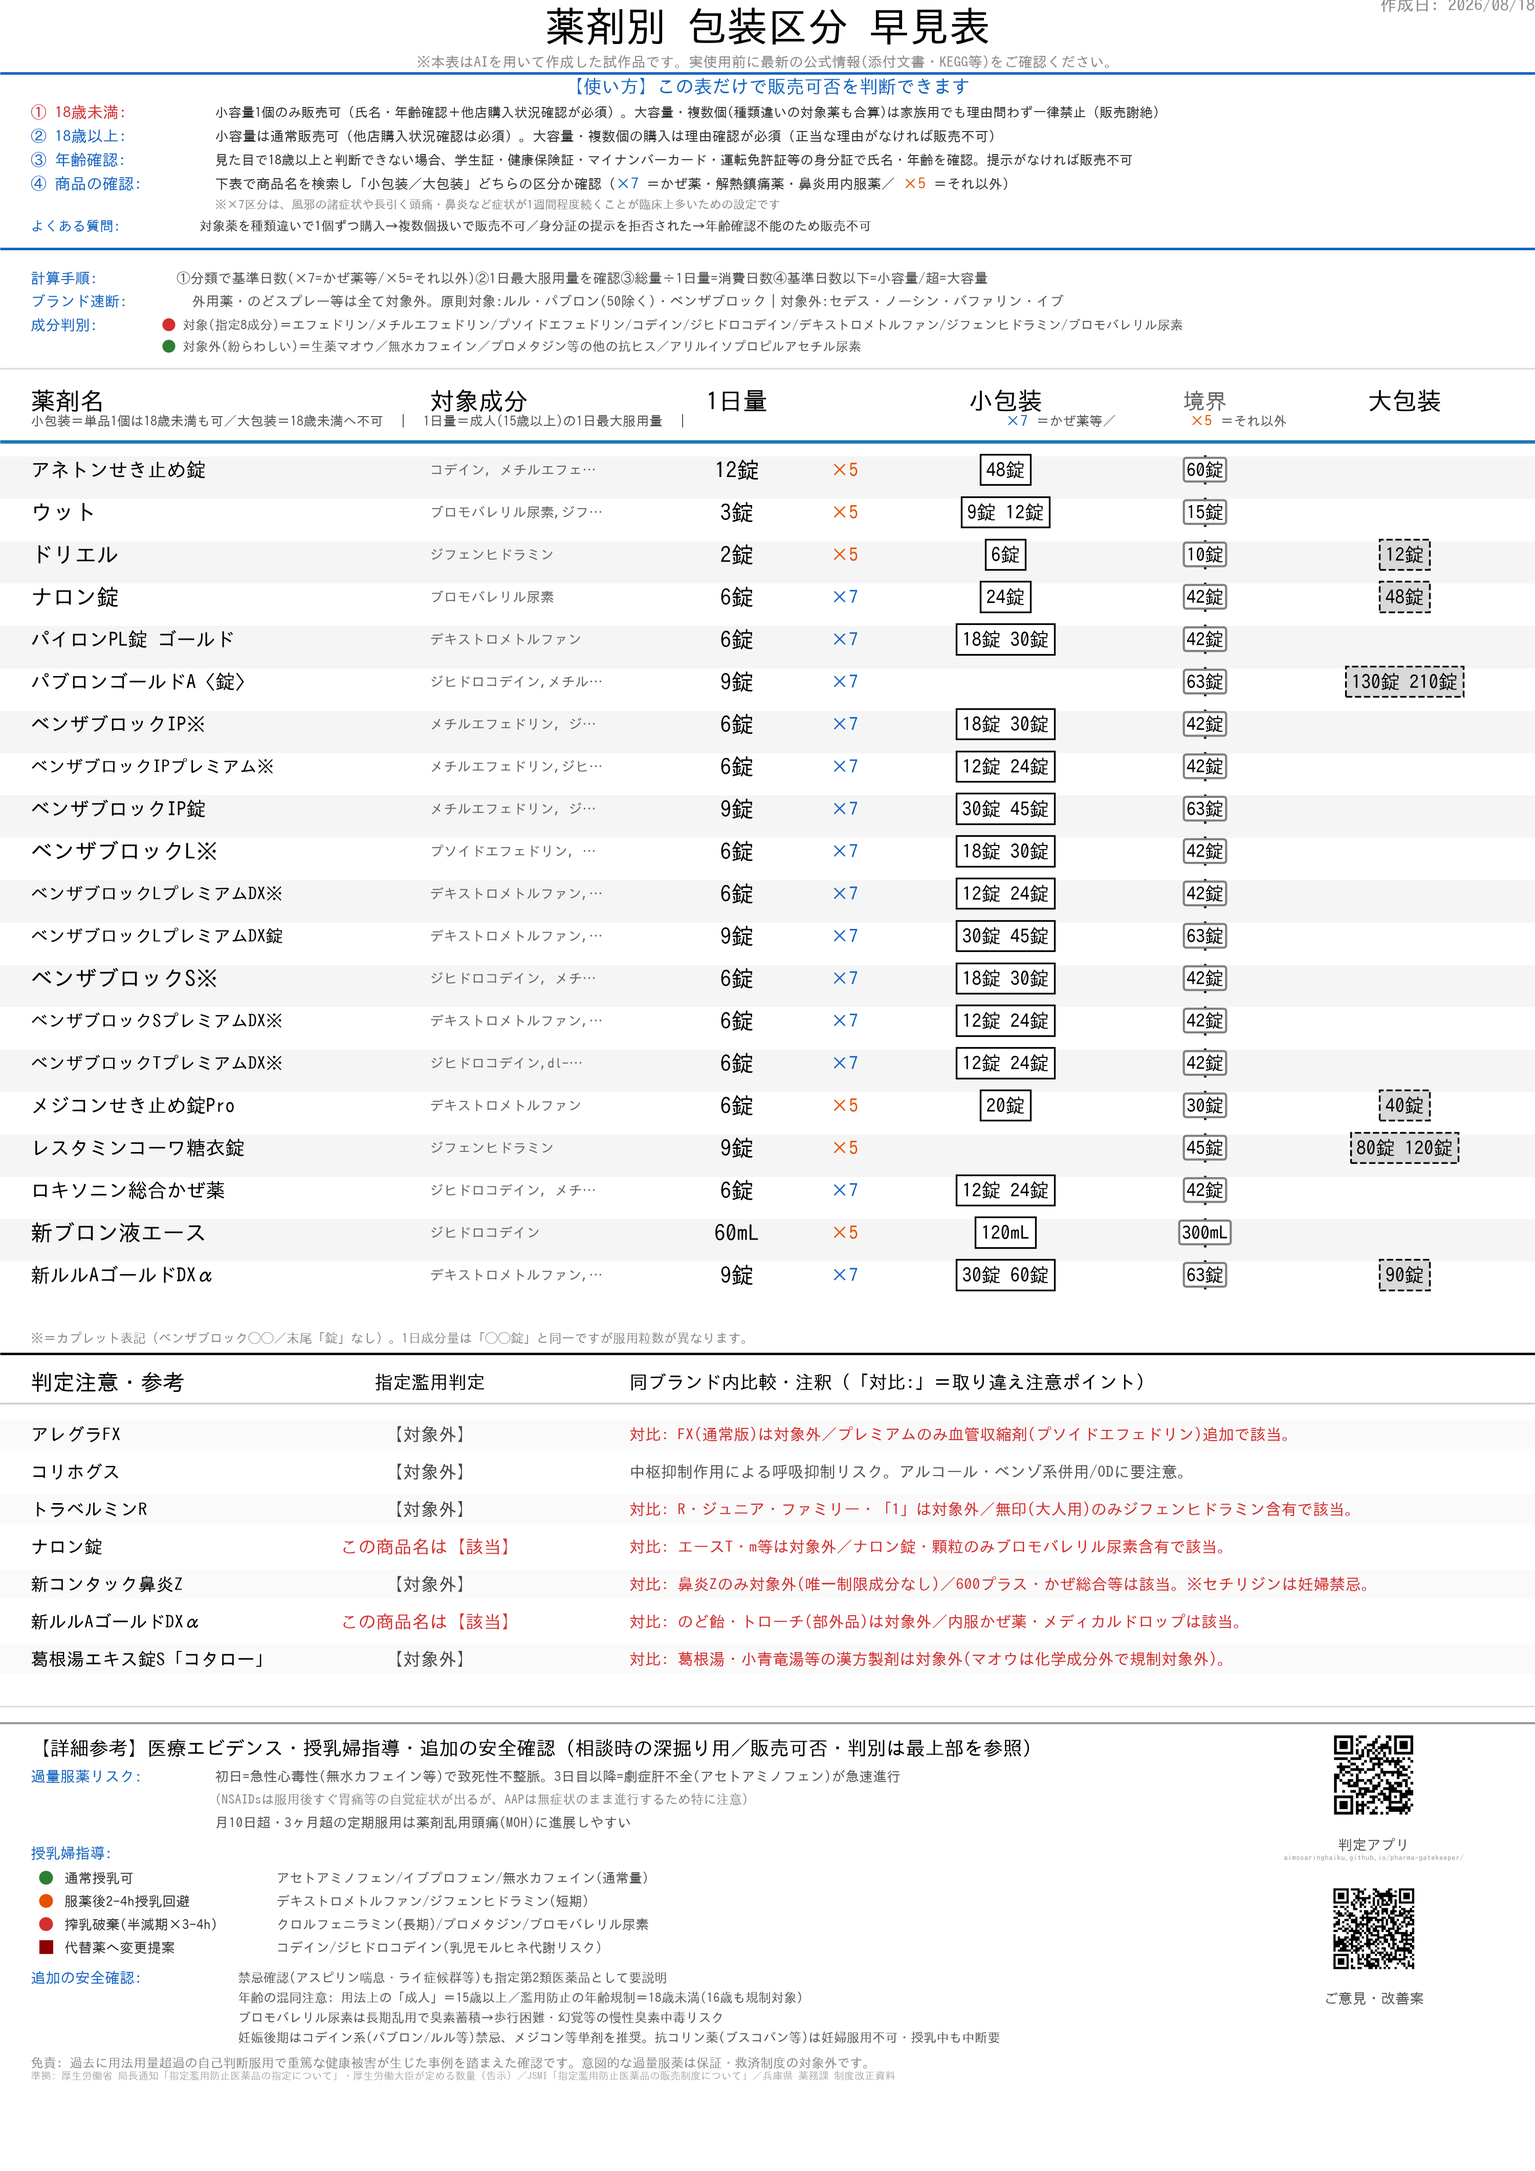
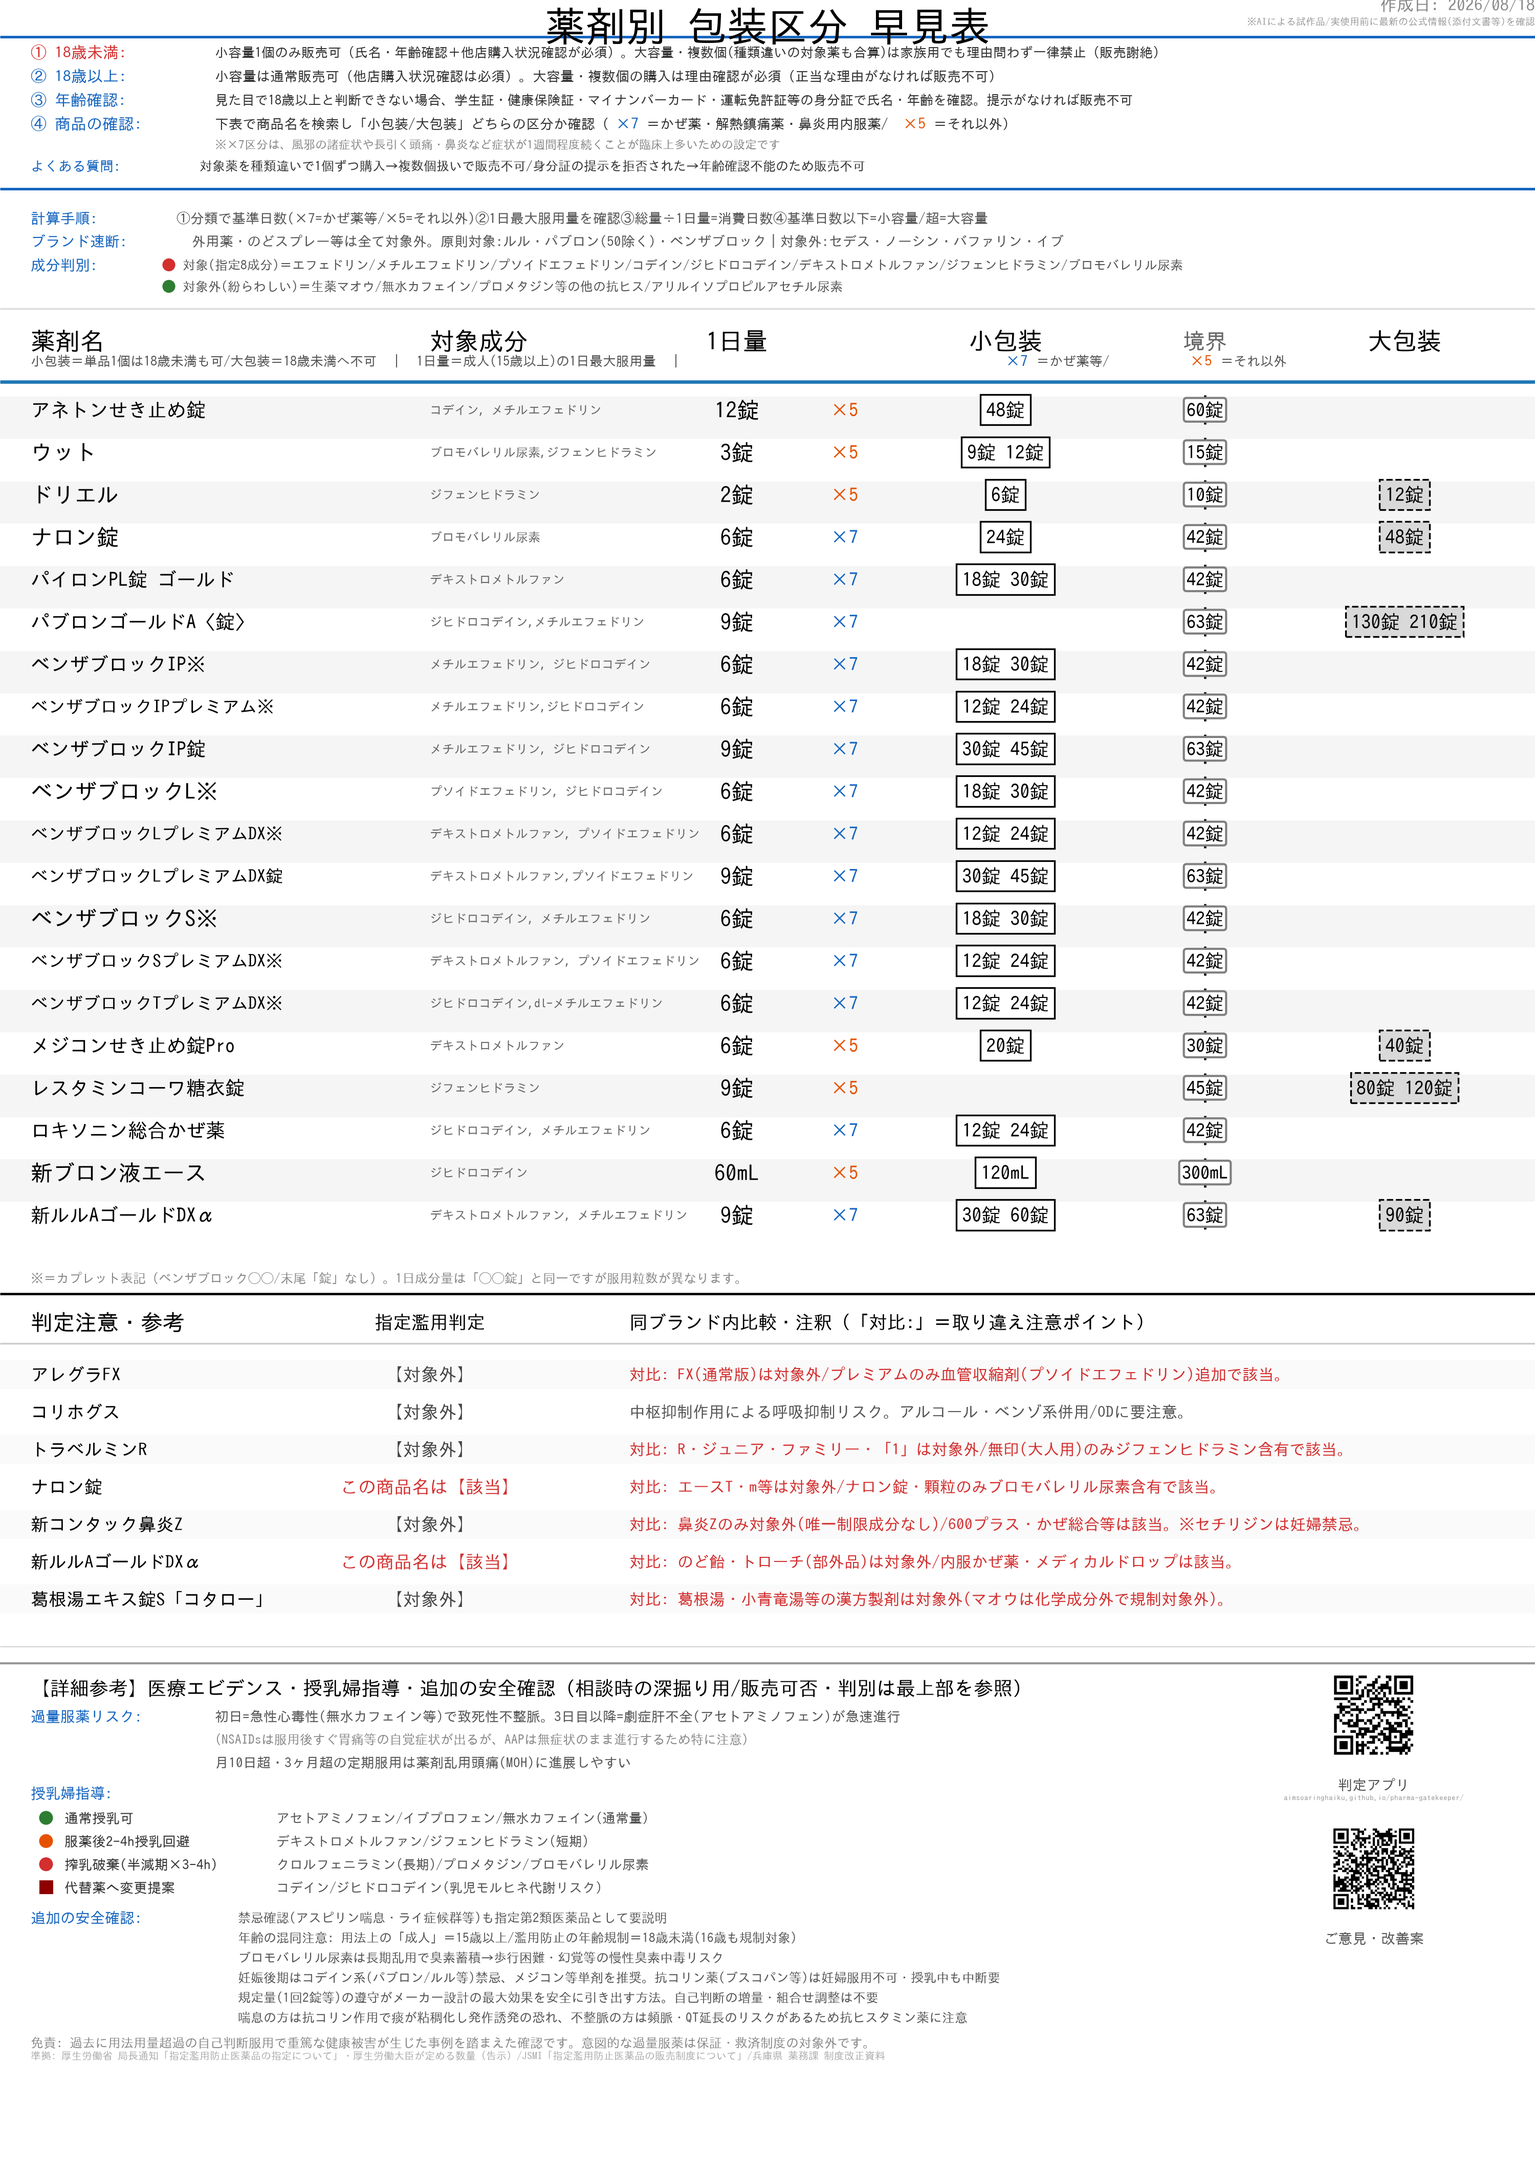
黄金比率・喘息/不整脈の注意を追加し、表記統一とレイアウト微調整
・追加の安全確認に「規定量遵守の重要性」「喘息・不整脈と抗コリン薬/
  抗ヒスタミン薬の関係」を1文ずつ追加
・全角スラッシュ（／）を半角（/）に統一
・タイトル直下の試作品注記をタイトル右横に小さく移動し、
  「【使い方】この表だけで販売可否を判断できます」の見出しを削除
・対象成分欄の表示上限を12→26文字に拡張し、フォントも調整して
  成分名をより読み取りやすく変更

diff --git a/vpc_v9_single_page.py b/vpc_v9_single_page.py
@@ -16,7 +16,7 @@ FORM_URL = "https://docs.google.com/forms/d/e/1FAIpQLSf7A1Hz3jx1FpkuV-3V7X69qNcN
 TARGET_INGREDIENTS_LEGEND = (
     "指定8成分: エフェドリン/メチルエフェドリン/プソイドエフェドリン/コデイン/ジヒドロコデイン/"
     "デキストロメトルファン/ジフェンヒドラミン/ブロモバレリル尿素　｜　"
-    "非対象（紛らわしい）: 生薬マオウ／無水カフェイン／プロメタジン等の抗ヒス／アリルイソプロピルアセチル尿素"
+    "非対象（紛らわしい）: 生薬マオウ/無水カフェイン/プロメタジン等の抗ヒス/アリルイソプロピルアセチル尿素"
 )
 
 GRAY = "#555555"
@@ -101,12 +101,12 @@ mart = pd.DataFrame(processed).sort_values("product").reset_index(drop=True)
 reference_df = df[df["kubun"].isin(["＊〇", "＊対象外", "△"])].copy()
 reference_rows = []
 CUSTOM_NOTES = {
-    "アレグラFX": "対比: FX(通常版)は対象外／プレミアムのみ血管収縮剤(プソイドエフェドリン)追加で該当。",
+    "アレグラFX": "対比: FX(通常版)は対象外/プレミアムのみ血管収縮剤(プソイドエフェドリン)追加で該当。",
     "コリホグス": "中枢抑制作用による呼吸抑制リスク。アルコール・ベンゾ系併用/ODに要注意。",
-    "トラベルミンR": "対比: R・ジュニア・ファミリー・「1」は対象外／無印(大人用)のみジフェンヒドラミン含有で該当。",
-    "ナロン錠": "対比: エースT・m等は対象外／ナロン錠・顆粒のみブロモバレリル尿素含有で該当。",
-    "新コンタック鼻炎Z": "対比: 鼻炎Zのみ対象外(唯一制限成分なし)／600プラス・かぜ総合等は該当。※セチリジンは妊婦禁忌。",
-    "新ルルAゴールドDXα": "対比: のど飴・トローチ(部外品)は対象外／内服かぜ薬・メディカルドロップは該当。",
+    "トラベルミンR": "対比: R・ジュニア・ファミリー・「1」は対象外/無印(大人用)のみジフェンヒドラミン含有で該当。",
+    "ナロン錠": "対比: エースT・m等は対象外/ナロン錠・顆粒のみブロモバレリル尿素含有で該当。",
+    "新コンタック鼻炎Z": "対比: 鼻炎Zのみ対象外(唯一制限成分なし)/600プラス・かぜ総合等は該当。※セチリジンは妊婦禁忌。",
+    "新ルルAゴールドDXα": "対比: のど飴・トローチ(部外品)は対象外/内服かぜ薬・メディカルドロップは該当。",
     "葛根湯エキス錠S「コタロー」": "対比: 葛根湯・小青竜湯等の漢方製剤は対象外(マオウは化学成分外で規制対象外)。",
 }
 for product, group in reference_df.groupby("product", sort=True):
@@ -154,17 +154,13 @@ current_y = LOGICAL_H - 1.7
 ax.text(LOGICAL_W / 2, current_y, "薬剤別 包装区分 早見表", fontsize=18.91, fontweight="bold", ha="center", va="center")
 today_str = datetime.date.today().strftime("%Y/%m/%d")
 ax.text(LOGICAL_W, current_y + 1.4, f"作成日: {today_str}", fontsize=7.93, ha="right", va="center", color="#888888")
-
-current_y -= 2.32
-ax.text(LOGICAL_W / 2, current_y,
-        "※本表はAIを用いて作成した試作品です。実使用前に最新の公式情報(添付文書・KEGG等)をご確認ください。",
-        fontsize=6.71, ha="center", va="center", color="#888888")
+ax.text(LOGICAL_W, current_y + 0.3, "※AIによる試作品/実使用前に最新の公式情報(添付文書等)を確認",
+        fontsize=4.6, ha="right", va="center", color="#999999")
 
 # --- 使い方・販売可否（①を年齢規制＝この表の根幹に。ルール未経験者でもこの1枚で可否判断できるよう最上部に配置） ---
-current_y -= 1.6
+current_y -= 1.55
 ax.hlines(current_y + 0.85, 0, LOGICAL_W, colors=BLUE, linewidth=1.2)
-ax.text(LOGICAL_W / 2, current_y, "【使い方】この表だけで販売可否を判断できます", fontsize=8.6, fontweight="bold", ha="center", va="center", color=BLUE)
-current_y -= 1.68
+current_y -= 0.15
 ax.text(COL_NAME_X, current_y, "① 18歳未満:", fontsize=7.4, fontweight="bold", ha="left", va="center", color=RED)
 ax.text(COL_NAME_X + 12.0, current_y,
         "小容量1個のみ販売可（氏名・年齢確認＋他店購入状況確認が必須）。大容量・複数個(種類違いの対象薬も合算)は家族用でも理由問わず一律禁止（販売謝絶）",
@@ -181,9 +177,9 @@ ax.text(COL_NAME_X + 12.0, current_y,
         fontsize=6.3, ha="left", va="center", color="#333333")
 current_y -= 1.55
 ax.text(COL_NAME_X, current_y, "④ 商品の確認:", fontsize=7.4, fontweight="bold", ha="left", va="center", color=BLUE)
-ax.text(COL_NAME_X + 12.0, current_y, "下表で商品名を検索し「小包装／大包装」どちらの区分か確認（", fontsize=6.6, ha="left", va="center", color="#333333")
+ax.text(COL_NAME_X + 12.0, current_y, "下表で商品名を検索し「小包装/大包装」どちらの区分か確認（", fontsize=6.6, ha="left", va="center", color="#333333")
 ax.text(COL_NAME_X + 38.1, current_y, "×7", fontsize=7.2, fontweight="bold", ha="left", va="center", color=BLUE)
-ax.text(COL_NAME_X + 40.1, current_y, "＝かぜ薬・解熱鎮痛薬・鼻炎用内服薬／", fontsize=6.6, ha="left", va="center", color="#333333")
+ax.text(COL_NAME_X + 40.1, current_y, "＝かぜ薬・解熱鎮痛薬・鼻炎用内服薬/", fontsize=6.6, ha="left", va="center", color="#333333")
 ax.text(COL_NAME_X + 56.8, current_y, "×5", fontsize=7.2, fontweight="bold", ha="left", va="center", color=ORANGE)
 ax.text(COL_NAME_X + 58.8, current_y, "＝それ以外）", fontsize=6.6, ha="left", va="center", color="#333333")
 current_y -= 1.35
@@ -193,7 +189,7 @@ ax.text(COL_NAME_X + 12.0, current_y,
 current_y -= 1.4
 ax.text(COL_NAME_X, current_y, "よくある質問:", fontsize=6.6, fontweight="bold", ha="left", va="center", color=BLUE)
 ax.text(COL_NAME_X + 11.0, current_y,
-        "対象薬を種類違いで1個ずつ購入→複数個扱いで販売不可／身分証の提示を拒否された→年齢確認不能のため販売不可",
+        "対象薬を種類違いで1個ずつ購入→複数個扱いで販売不可/身分証の提示を拒否された→年齢確認不能のため販売不可",
         fontsize=6.0, ha="left", va="center", color="#333333")
 current_y -= 1.5
 ax.hlines(current_y, 0, LOGICAL_W, colors=BLUE, linewidth=1.2)
@@ -219,7 +215,7 @@ ax.text(COL_NAME_X + 9.9, current_y,
 current_y -= 1.4
 marker(ax, COL_NAME_X + 9.0, current_y, GREEN, "circle", 0.42)
 ax.text(COL_NAME_X + 9.9, current_y,
-        "対象外(紛らわしい)＝生薬マオウ／無水カフェイン／プロメタジン等の他の抗ヒス／アリルイソプロピルアセチル尿素",
+        "対象外(紛らわしい)＝生薬マオウ/無水カフェイン/プロメタジン等の他の抗ヒス/アリルイソプロピルアセチル尿素",
         fontsize=5.9, ha="left", va="center", color=GRAY)
 current_y -= 1.45
 ax.hlines(current_y, 0, LOGICAL_W, colors="#dddddd", linewidth=0.8)
@@ -235,9 +231,9 @@ ax.text(COL_BOUND_X, current_y, "境界", fontweight="bold", fontsize=10.37, ha=
 ax.text(COL_LARGE_X, current_y, "大包装", fontweight="bold", fontsize=11.59, ha="center", va="center")
 
 current_y -= 1.3
-ax.text(COL_NAME_X, current_y, "小包装＝単品1個は18歳未満も可／大包装＝18歳未満へ不可　｜　1日量＝成人(15歳以上)の1日最大服用量　｜　", fontsize=6.35, ha="left", va="center", color="#555555")
+ax.text(COL_NAME_X, current_y, "小包装＝単品1個は18歳未満も可/大包装＝18歳未満へ不可　｜　1日量＝成人(15歳以上)の1日最大服用量　｜　", fontsize=6.35, ha="left", va="center", color="#555555")
 ax.text(COL_NAME_X + 63.5, current_y, "×7", fontsize=6.9, fontweight="bold", ha="left", va="center", color=BLUE)
-ax.text(COL_NAME_X + 65.5, current_y, "＝かぜ薬等／", fontsize=6.35, ha="left", va="center", color="#555555")
+ax.text(COL_NAME_X + 65.5, current_y, "＝かぜ薬等/", fontsize=6.35, ha="left", va="center", color="#555555")
 ax.text(COL_NAME_X + 75.5, current_y, "×5", fontsize=6.9, fontweight="bold", ha="left", va="center", color=ORANGE)
 ax.text(COL_NAME_X + 77.5, current_y, "＝それ以外", fontsize=6.35, ha="left", va="center", color="#555555")
 
@@ -259,9 +255,9 @@ for i, row in mart.iterrows():
 
     if row["ingredients"]:
         clean_ingr = re.sub(r'(塩酸塩|リン酸塩|硫酸塩|臭化水素酸塩|マレイン酸塩|酒石酸塩|フマル酸塩)', '', row["ingredients"])
-        if len(clean_ingr) > 12:
-            clean_ingr = clean_ingr[:12] + "…"
-        ax.text(COL_INGR_X, current_y, clean_ingr, fontsize=6.48, ha="left", va="center", color="#666666")
+        if len(clean_ingr) > 26:
+            clean_ingr = clean_ingr[:26] + "…"
+        ax.text(COL_INGR_X, current_y, clean_ingr, fontsize=5.8, ha="left", va="center", color="#666666")
     else:
         ax.text(COL_INGR_X, current_y, "-", fontsize=7.93, ha="left", va="center", color="#aaaaaa")
 
@@ -287,7 +283,7 @@ for i, row in mart.iterrows():
 
 current_y -= 1.35
 ax.text(COL_NAME_X, current_y,
-        "※＝カプレット表記（ベンザブロック◯◯／末尾「錠」なし）。1日成分量は「◯◯錠」と同一ですが服用粒数が異なります。",
+        "※＝カプレット表記（ベンザブロック◯◯/末尾「錠」なし）。1日成分量は「◯◯錠」と同一ですが服用粒数が異なります。",
         fontsize=6.1, ha="left", va="center", color="#888888")
 
 # --- 判定注意・参考（マトリックス） ---
@@ -364,7 +360,7 @@ DL, DR = 0.0, 82.0  # 本文カラム幅（右のQR縦積み列を避ける）
 y = detail_top
 ax.hlines(y, 0, LOGICAL_W, colors="#999999", linewidth=1.0)
 y -= 1.62
-ax.text(COL_NAME_X, y, "【詳細参考】医療エビデンス・授乳婦指導・追加の安全確認（相談時の深掘り用／販売可否・判別は最上部を参照）",
+ax.text(COL_NAME_X, y, "【詳細参考】医療エビデンス・授乳婦指導・追加の安全確認（相談時の深掘り用/販売可否・判別は最上部を参照）",
         fontsize=9.15, fontweight="bold", ha="left", va="center")
 y -= 1.84
 
@@ -400,13 +396,19 @@ ax.text(COL_NAME_X, y, "追加の安全確認:", fontsize=7.07, fontweight="bold
 ax.text(COL_NAME_X + 13.5, y, "禁忌確認(アスピリン喘息・ライ症候群等)も指定第2類医薬品として要説明",
         fontsize=6.1, ha="left", va="center", color=GRAY)
 y -= 1.3
-ax.text(COL_NAME_X + 13.5, y, "年齢の混同注意: 用法上の「成人」＝15歳以上／濫用防止の年齢規制＝18歳未満(16歳も規制対象)",
+ax.text(COL_NAME_X + 13.5, y, "年齢の混同注意: 用法上の「成人」＝15歳以上/濫用防止の年齢規制＝18歳未満(16歳も規制対象)",
         fontsize=6.1, ha="left", va="center", color=GRAY)
 y -= 1.3
 ax.text(COL_NAME_X + 13.5, y, "ブロモバレリル尿素は長期乱用で臭素蓄積→歩行困難・幻覚等の慢性臭素中毒リスク",
         fontsize=6.1, ha="left", va="center", color=GRAY)
 y -= 1.3
 ax.text(COL_NAME_X + 13.5, y, "妊娠後期はコデイン系(パブロン/ルル等)禁忌、メジコン等単剤を推奨。抗コリン薬(ブスコパン等)は妊婦服用不可・授乳中も中断要",
+        fontsize=6.1, ha="left", va="center", color=GRAY)
+y -= 1.3
+ax.text(COL_NAME_X + 13.5, y, "規定量(1回2錠等)の遵守がメーカー設計の最大効果を安全に引き出す方法。自己判断の増量・組合せ調整は不要",
+        fontsize=6.1, ha="left", va="center", color=GRAY)
+y -= 1.3
+ax.text(COL_NAME_X + 13.5, y, "喘息の方は抗コリン作用で痰が粘稠化し発作誘発の恐れ、不整脈の方は頻脈・QT延長のリスクがあるため抗ヒスタミン薬に注意",
         fontsize=6.1, ha="left", va="center", color=GRAY)
 y -= 1.4
 
@@ -416,7 +418,7 @@ ax.text(COL_NAME_X, y,
         fontsize=6.1, ha="left", va="center", color=LGRAY)
 y -= 0.85
 ax.text(COL_NAME_X, y,
-        "準拠: 厚生労働省 局長通知「指定濫用防止医薬品の指定について」・厚生労働大臣が定める数量（告示）／JSMI「指定濫用防止医薬品の販売制度について」／兵庫県 薬務課 制度改正資料",
+        "準拠: 厚生労働省 局長通知「指定濫用防止医薬品の指定について」・厚生労働大臣が定める数量（告示）/JSMI「指定濫用防止医薬品の販売制度について」/兵庫県 薬務課 制度改正資料",
         fontsize=4.8, ha="left", va="center", color="#aaaaaa")
 
 plt.savefig(OUTPUT_PNG, dpi=300)
